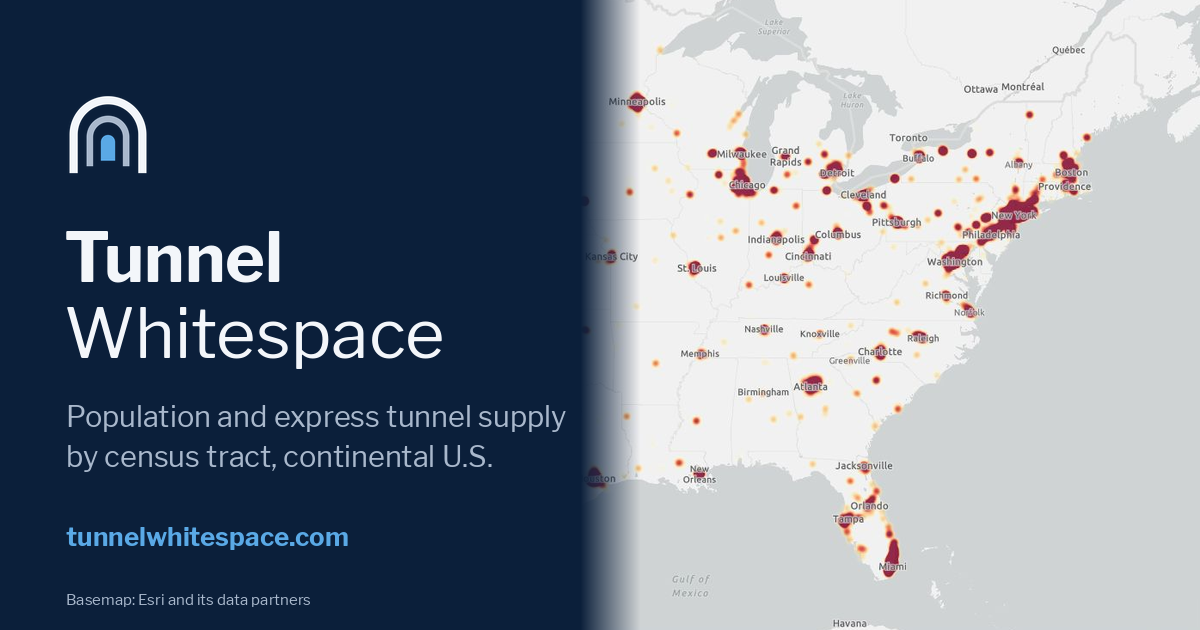
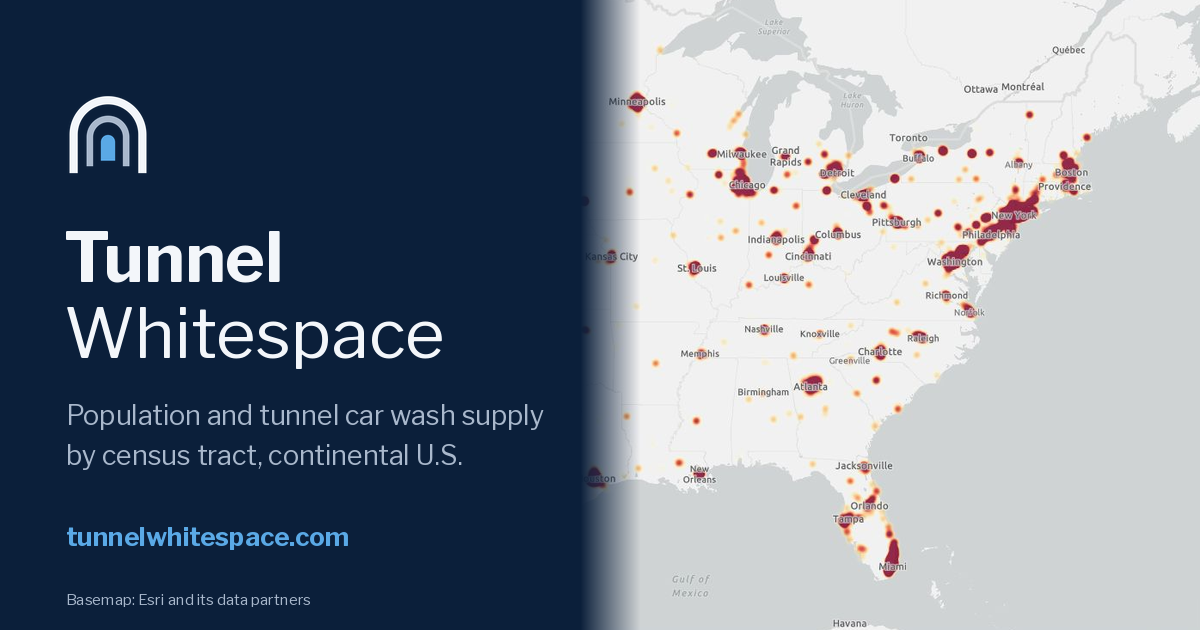
Tunnel car wash wording in page text and preview card
The tunnel census counts full-serve and flex tunnels as well as express, so the descriptions and the link-preview card say tunnel car wash supply.

diff --git a/southeast/index.html b/southeast/index.html
@@ -4,7 +4,7 @@
 <meta charset="utf-8">
 <meta name="viewport" content="width=device-width, initial-scale=1">
 <title>Tunnel Whitespace: Southeast</title>
-<meta name="description" content="Population and express car wash tunnel supply by census tract, continental U.S. Esri 2024 population estimates; tunnel locations verified October 2026.">
+<meta name="description" content="Population and tunnel car wash supply by census tract, continental U.S. Esri 2024 population estimates; tunnel locations verified October 2026.">
 <meta name="theme-color" content="#0B1F3A">
 <link rel="canonical" href="https://tunnelwhitespace.com/southeast/">
 <link rel="icon" type="image/png" href="../favicon.png">
@@ -12,12 +12,12 @@
 <meta property="og:type" content="website">
 <meta property="og:site_name" content="Tunnel Whitespace">
 <meta property="og:title" content="Tunnel Whitespace: Southeast">
-<meta property="og:description" content="Population and express car wash tunnel supply by census tract, continental U.S.">
+<meta property="og:description" content="Population and tunnel car wash supply by census tract, continental U.S.">
 <meta property="og:url" content="https://tunnelwhitespace.com/southeast/">
 <meta property="og:image" content="https://tunnelwhitespace.com/preview.png">
 <meta property="og:image:width" content="1200">
 <meta property="og:image:height" content="630">
-<meta property="og:image:alt" content="Tunnel Whitespace: heat map of express car wash tunnel gaps across the eastern U.S.">
+<meta property="og:image:alt" content="Tunnel Whitespace: heat map of tunnel car wash gaps across the eastern U.S.">
 <meta name="twitter:card" content="summary_large_image">
 <meta name="twitter:image" content="https://tunnelwhitespace.com/preview.png">
 <!-- Google Analytics 4: property "Tunnel Whitespace" (the map app inside the frame reports to the same property) -->

diff --git a/index.html b/index.html
@@ -4,7 +4,7 @@
 <meta charset="utf-8">
 <meta name="viewport" content="width=device-width, initial-scale=1">
 <title>Tunnel Whitespace</title>
-<meta name="description" content="Population and express car wash tunnel supply by census tract, continental U.S. Esri 2024 population estimates; tunnel locations verified October 2026.">
+<meta name="description" content="Population and tunnel car wash supply by census tract, continental U.S. Esri 2024 population estimates; tunnel locations verified October 2026.">
 <meta name="theme-color" content="#0B1F3A">
 <link rel="canonical" href="https://tunnelwhitespace.com/">
 <link rel="icon" type="image/png" href="favicon.png">
@@ -12,12 +12,12 @@
 <meta property="og:type" content="website">
 <meta property="og:site_name" content="Tunnel Whitespace">
 <meta property="og:title" content="Tunnel Whitespace">
-<meta property="og:description" content="Population and express car wash tunnel supply by census tract, continental U.S.">
+<meta property="og:description" content="Population and tunnel car wash supply by census tract, continental U.S.">
 <meta property="og:url" content="https://tunnelwhitespace.com/">
 <meta property="og:image" content="https://tunnelwhitespace.com/preview.png">
 <meta property="og:image:width" content="1200">
 <meta property="og:image:height" content="630">
-<meta property="og:image:alt" content="Tunnel Whitespace: heat map of express car wash tunnel gaps across the eastern U.S.">
+<meta property="og:image:alt" content="Tunnel Whitespace: heat map of tunnel car wash gaps across the eastern U.S.">
 <meta name="twitter:card" content="summary_large_image">
 <meta name="twitter:image" content="https://tunnelwhitespace.com/preview.png">
 <!-- Google Analytics 4: property "Tunnel Whitespace" (the map app inside the frame reports to the same property) -->
